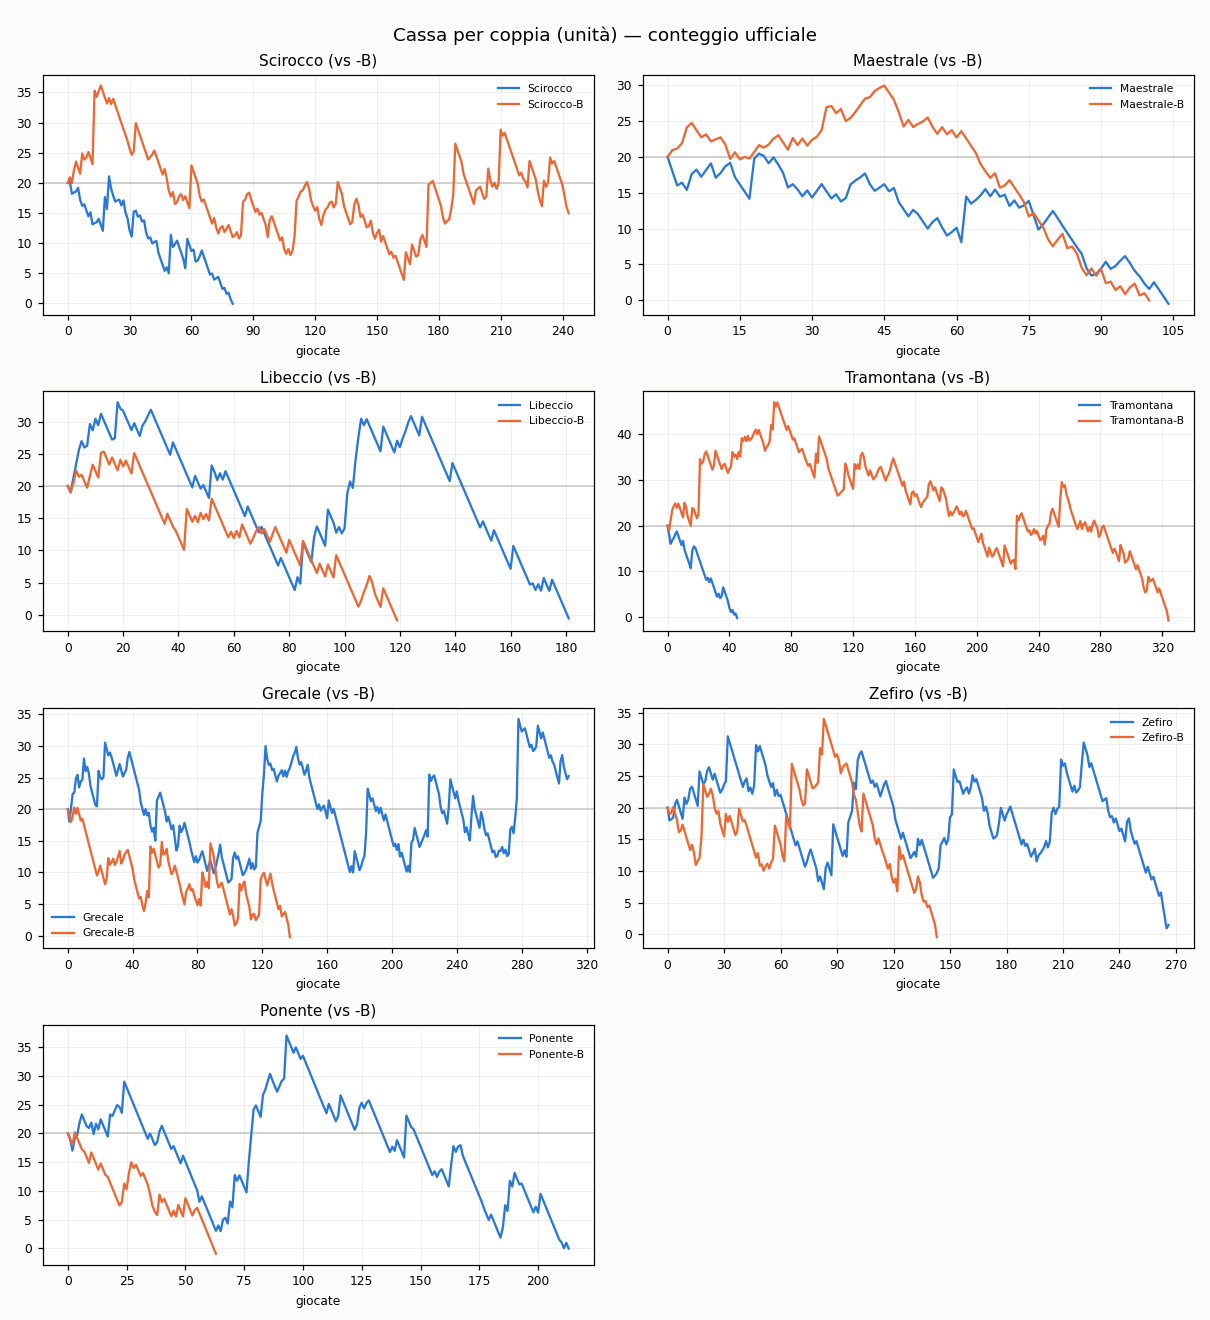
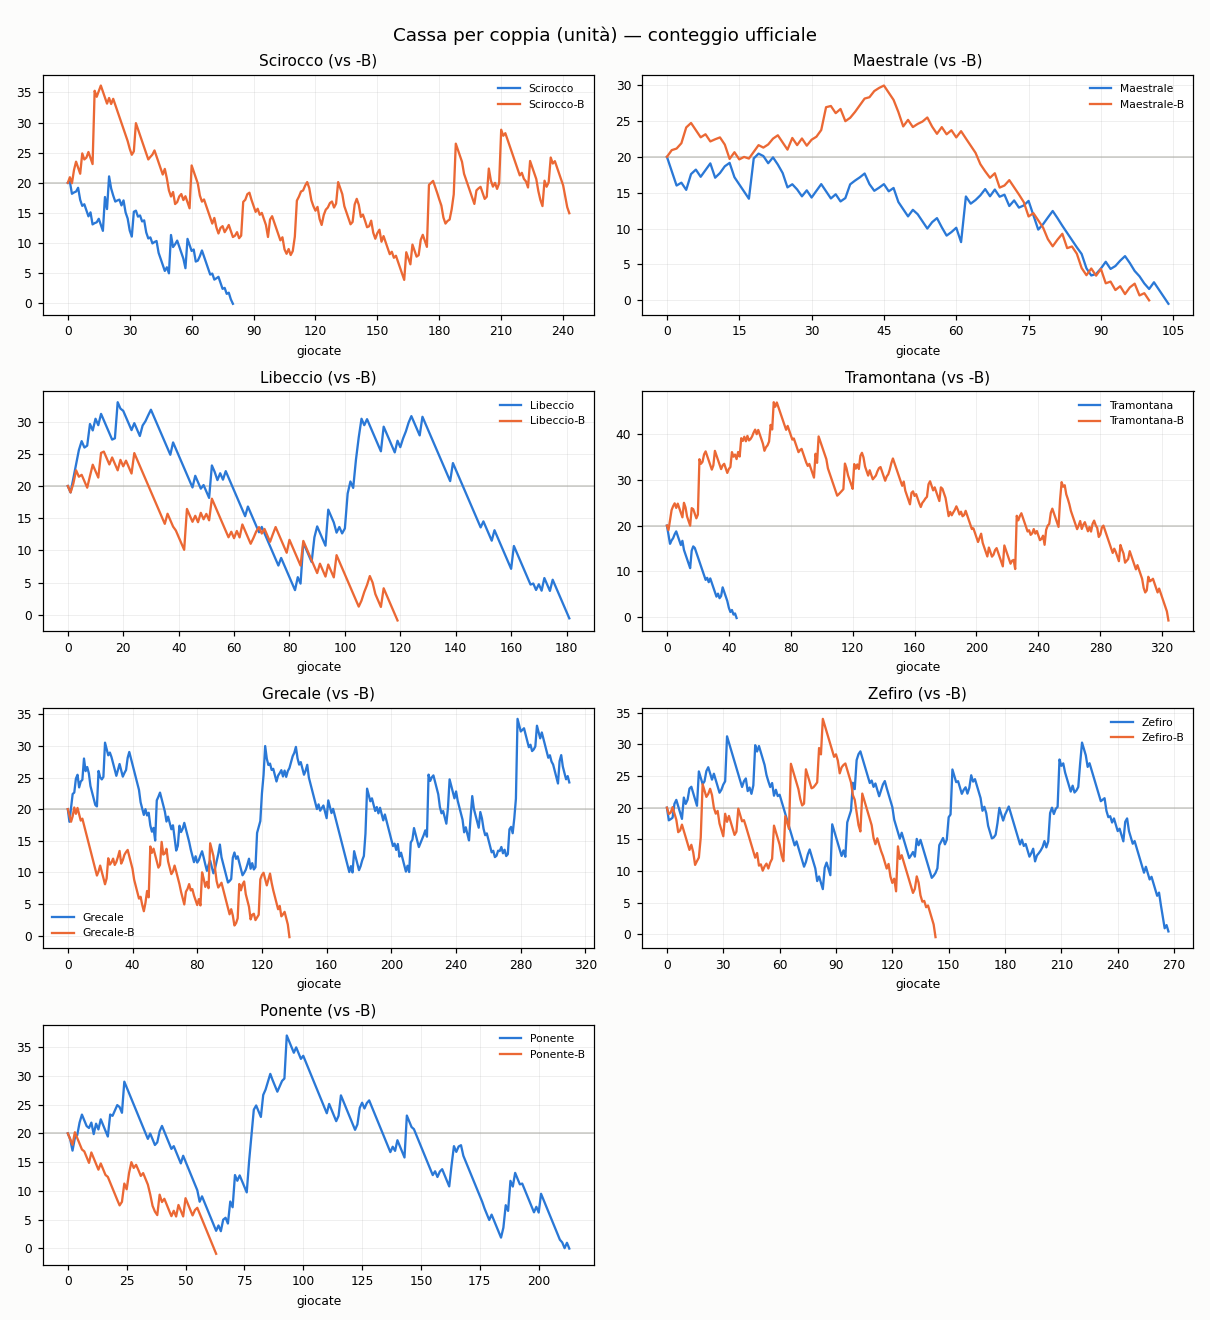
aggiornamento 2026-07-27 15:51 UTC

diff --git a/README.md b/README.md
@@ -37,9 +37,9 @@ scala in unità). Non indichiamo quale.
 
 ## Grafici
 
-![Coppie: dati completi vs ridotti](https://raw.githubusercontent.com/Kitem19/ippica-track-record/main/charts/equity_pairs.png?v=4f97135c)
+![Coppie: dati completi vs ridotti](https://raw.githubusercontent.com/Kitem19/ippica-track-record/main/charts/equity_pairs.png?v=a338d2a0)
 
-![Delta per coppia](https://raw.githubusercontent.com/Kitem19/ippica-track-record/main/charts/coppie_delta.png?v=2c22d0c0)
+![Delta per coppia](https://raw.githubusercontent.com/Kitem19/ippica-track-record/main/charts/coppie_delta.png?v=1aa9d7fb)
 
 ### Come leggere i grafici
 
@@ -60,7 +60,7 @@ _Poche giornate: numeri ancora rumorosi, si conclude a fine fase (31/7)._
 - **Maestrale**: in sostanziale pareggio — troppo presto per dire
 - **Libeccio**: in sostanziale pareggio — troppo presto per dire
 - **Tramontana**: in sostanziale pareggio — troppo presto per dire
-- **Grecale**: dati completi avanti di 25,5u
+- **Grecale**: dati completi avanti di 24,5u
 - **Zefiro**: in sostanziale pareggio — troppo presto per dire
 - **Ponente**: in sostanziale pareggio — troppo presto per dire
 
@@ -68,22 +68,22 @@ _Poche giornate: numeri ancora rumorosi, si conclude a fine fase (31/7)._
 
 | Sistema | Cassa (u) | P/L (u) | Selezioni | Escluse | Stato |
 |---|---|---|---|---|---|
-| Grecale | 25,2 | +5,2 | 309 | 4 | 🟢 |
+| Grecale | 24,2 | +4,2 | 310 | 4 | 🟢 |
 | Scirocco-B | 15,0 | -5,0 | 243 | 0 | 🟢 |
-| Zefiro | 1,4 | -18,6 | 266 | 8 | 🟢 |
-| Maestrale-B | 0,0 | -20,0 | 100 | 242 | 🛑 |
-| Ponente | 0,0 | -20,0 | 213 | 30 | 🛑 |
-| Scirocco | 0,0 | -20,1 | 80 | 269 | 🛑 |
-| Grecale-B | 0,0 | -20,2 | 137 | 176 | 🛑 |
-| Tramontana | 0,0 | -20,3 | 45 | 311 | 🛑 |
-| Zefiro-B | 0,0 | -20,5 | 143 | 75 | 🛑 |
-| Maestrale | 0,0 | -20,5 | 104 | 261 | 🛑 |
-| Libeccio | 0,0 | -20,6 | 181 | 170 | 🛑 |
-| Tramontana-B | 0,0 | -20,8 | 324 | 17 | 🛑 |
-| Libeccio-B | 0,0 | -20,9 | 119 | 184 | 🛑 |
-| Ponente-B | 0,0 | -21,0 | 63 | 89 | 🛑 |
+| Zefiro | 0,4 | -19,6 | 267 | 8 | 🟢 |
+| Maestrale-B | 0,0 | -20,0 | 100 | 243 | 🛑 |
+| Ponente | 0,0 | -20,0 | 213 | 31 | 🛑 |
+| Scirocco | 0,0 | -20,1 | 80 | 270 | 🛑 |
+| Grecale-B | 0,0 | -20,2 | 137 | 177 | 🛑 |
+| Tramontana | 0,0 | -20,3 | 45 | 312 | 🛑 |
+| Zefiro-B | 0,0 | -20,5 | 143 | 76 | 🛑 |
+| Maestrale | 0,0 | -20,5 | 104 | 262 | 🛑 |
+| Libeccio | 0,0 | -20,6 | 181 | 171 | 🛑 |
+| Tramontana-B | 0,0 | -20,8 | 324 | 18 | 🛑 |
+| Libeccio-B | 0,0 | -20,9 | 119 | 185 | 🛑 |
+| Ponente-B | 0,0 | -21,0 | 63 | 90 | 🛑 |
 
-_Aggiornato: 27/07 17:46_
+_Aggiornato: 27/07 17:51_
 ---
 *Nessuna delle informazioni qui pubblicate costituisce consiglio di gioco.
 Il gioco può causare dipendenza — 18+.*
